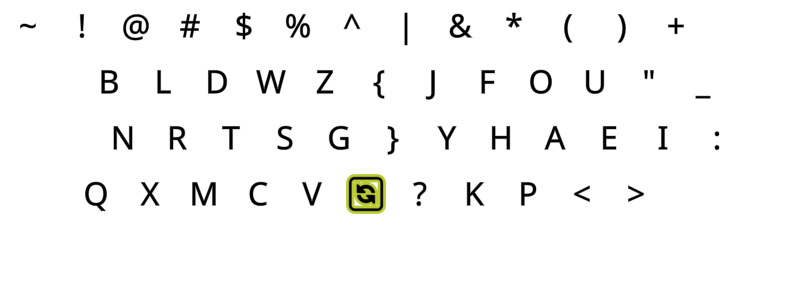
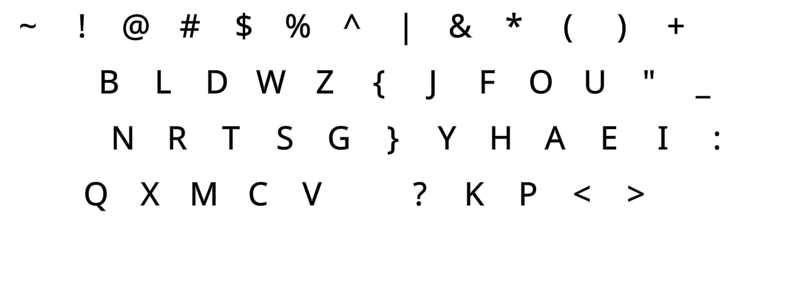
Gal-Gra images
* Added images for Galliard and Gralmak
* Changed Galliard KLC to Gralmak; it's too heavy to maintain both

Changed region(s): [[0.4002, 0.5957, 0.4926, 0.766]]

diff --git a/Source/EPKL_Source/README.md b/Source/EPKL_Source/README.md
@@ -567,21 +567,21 @@ VERSION HISTORY:
 		- Any LayDir not starting with the LayMain's 3LA (usually the 3 first letters) is not shown in the Layout Selector anymore.
 	- Fixed: HIG only made "state0.png" (really the last state) plus state0.svg.png (actual state0) instead of the state images it should.
 		- InkScape v1.3 (2023-07) had a bug affecting batch export. Fixed in later versions. The HIG works w/ the standalone v1.2.1 install.
+	- Tweaked the dialog GUI and several settings' names for the HIG, to hopefully be a little more descriptive.
 	- Reworked Ext-tap DK layers. The URL and BBC tags weren't universally useful, somewhat unintuitive and better solved as sequences anyway.
 		- Instead, added Ctrl+W/S/etc shortcuts, and moved some old shortcuts around. Still uncertain about symbols for these layers, due to ToM timing.
+		- Added WheelUp/Dn to Ext-tap, on the same keys as on Ext (Cmk W/R). Moves on Cmk: `Cap` Pp → Ll, `^w` Ww → Pp, `w³?` L → U.
+			- This is handy for scrolling (web) pages, in conjunction with the other Ext/Ext-Tap MouseWheel and PgUp/Dn mappings.
 	- Reworked Single-Entry key mapping. In addition to `vk|vkey` and `sc|skey|system`, `--|disabled` disables a key and `<>|unmapped` leaves it alone.
 		- The main purpose of `Unmapped` is to allow an Override file such as `Layout_Override.ini` to instruct EPKL to leave a key untouched.
 		- Added a `Single-Entry` mapping type in the KeyMapper, with these four "Map to..." flavors.
 		- Changed the Special Keys CapsLock entry in the Settings GUI to `Unmapped`. This makes reclaiming the CapsLock key (at the user's loss) easier.
 	- Rewrote the Kaomoji mappings as PowerStrings, so they are easily and consistently useable both for Kaomoji DK mappings and Compose sequences.
-	- Tested whether GitHub Markdown can support `style="background-color:white;"` or similar html/MD to make layer images work with dark browser themes.
+	- Tested whether GitHub Markdown can support `style="background-color:white;"` or similar html/MD 
+		- This could make EPKL layer images work with dark browser themes. Today those are shown as black-on-dark.
 		- Unfortunately, the result was negative. I found no solutions online; only plenty of complaints about this shortcoming of GF Markdown.
-	- Tweaked the dialog GUI and several settings' names for the HIG, to hopefully be a little more descriptive.
 	- A `runTarget` hotkey that by default opens or focuses on the main EPKL folder. Ctrl+Shift+7 was available, by moving the MoveImage Hotkey.
 		- Any location, file or app can be set as the `openMenuTarget`. Files and folders are opened by their default programs.
 	- The menuIconList function from Source\Extras was internalized, callable as the "debug" function. It shows icons and their positions in any file.
 	- Added Ukrainian "Ukromak" (Cmk-Ukr), based on a commit by Grenudi (https://github.com/DreymaR/BigBagKbdTrixPKL/pull/92).
 		- Switched all Kyr script locale codes from 2-letter to 3-letter ISO codes (ISO 639-1 to 639-2): Ru-Rus, Uk-Ukr, Bg-Bul.
-	- Added WheelUp/Dn to Ext-tap, on the same keys as on Ext (Cmk W/R). Moves on Cmk: `Cap` Pp → Ll, `^w` Ww → Pp, `w³?` L → U.
-		- This is handy for scrolling (web) pages, in conjunction with the other Ext/Ext-Tap MouseWheel and PgUp/Dn mappings.
-
